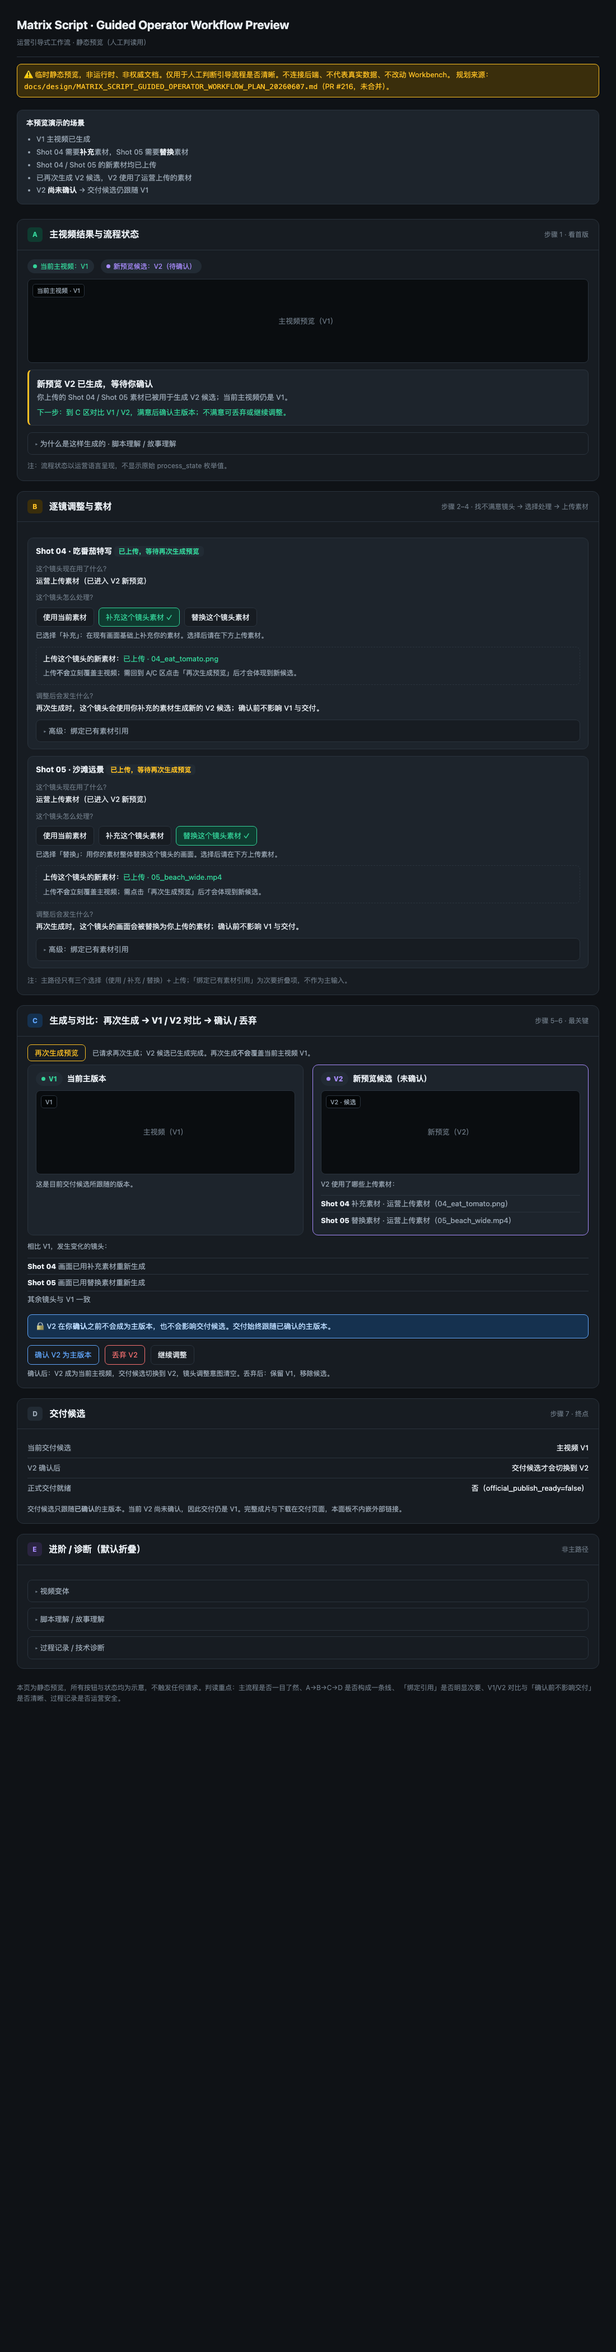
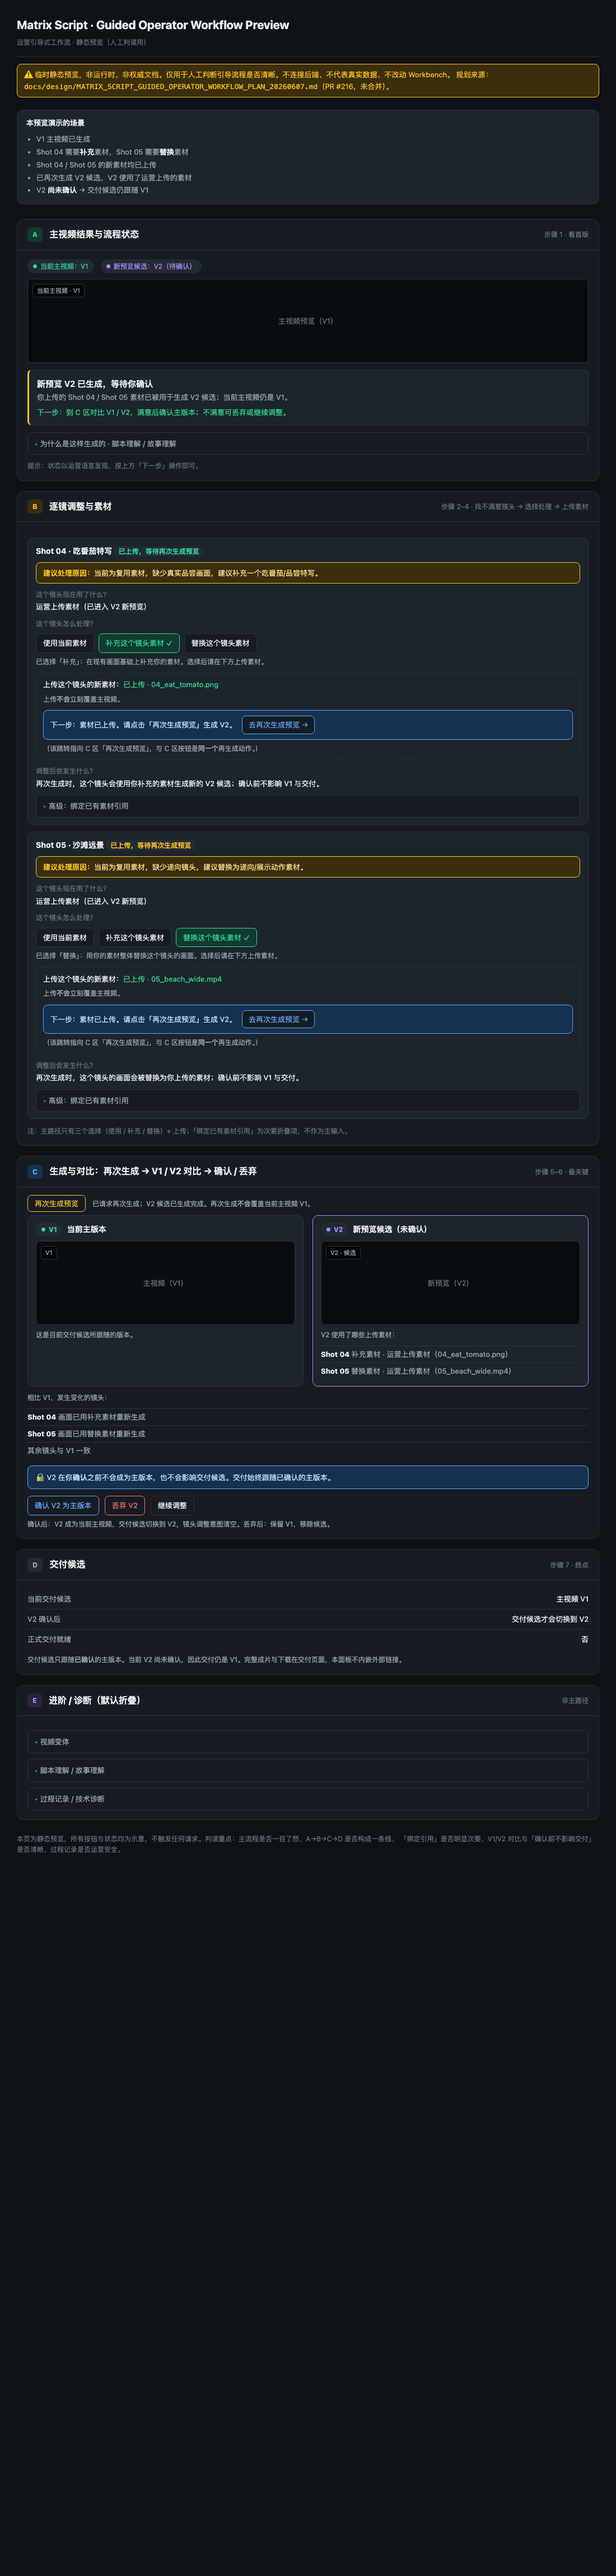
docs(matrix-script): apply operator-review fixes to guided workflow preview
- Fix 1: per-shot 建议处理原因 cue on Shot 04 / Shot 05
- Fix 2: D 区 shows 正式交付就绪：否 only; drop raw official_publish_ready
  field and the engineer-facing process_state note from primary surface
- Fix 3: upload -> regenerate nudge + jump-to-C CTA beside each upload

diff --git a/docs/design/previews/matrix_script_guided_operator_workflow_preview.html b/docs/design/previews/matrix_script_guided_operator_workflow_preview.html
@@ -89,6 +89,14 @@
   details.adv[open]>summary::before{content:"▾ "}
   details.adv .adv-body{padding:0 14px 12px;font-size:13px;color:var(--muted)}
 
+  .reason{background:var(--amber-dim);border:1px solid var(--amber);color:#f5d98a;
+    border-radius:8px;padding:8px 12px;font-size:13px;margin:8px 0 2px}
+  .reason b{color:var(--amber)}
+  .nudge{display:flex;align-items:center;gap:10px;flex-wrap:wrap;background:var(--blue-dim);
+    border:1px solid var(--blue);color:#bcdcff;border-radius:8px;padding:9px 12px;font-size:13px;margin-top:10px}
+  .nudge a.jump{font-size:13px;padding:5px 11px;border-radius:7px;border:1px solid var(--blue);
+    color:var(--blue);text-decoration:none;background:var(--panel)}
+
   .cmp{display:grid;grid-template-columns:1fr 1fr;gap:16px;margin:10px 0}
   @media(max-width:760px){.cmp{grid-template-columns:1fr}}
   .cmp .col{background:var(--panel2);border:1px solid var(--line);border-radius:10px;padding:12px 14px}
@@ -162,7 +170,7 @@
         脚本被拆为 6 个镜头，按 Hook → Body → CTA 组织。此处为只读的生成背景说明，不是需要你操作的步骤。
       </div>
     </details>
-    <div class="note">注：流程状态以运营语言呈现，不显示原始 process_state 枚举值。</div>
+    <div class="note">提示：状态以运营语言呈现，按上方「下一步」操作即可。</div>
   </div>
 </section>
 
@@ -178,6 +186,7 @@
     <!-- Shot 04 supplement -->
     <div class="shot">
       <h3>Shot 04 · 吃番茄特写 <span class="statelabel up">已上传，等待再次生成预览</span></h3>
+      <div class="reason"><b>建议处理原因：</b>当前为复用素材，缺少真实品尝画面，建议补充一个吃番茄/品尝特写。</div>
       <div class="qline">这个镜头现在用了什么？</div>
       <div class="ans">运营上传素材（已进入 V2 新预览）</div>
 
@@ -191,7 +200,12 @@
 
       <div class="upload">
         <div>上传这个镜头的新素材：<span class="file">已上传 · 04_eat_tomato.png</span></div>
-        <div class="helper">上传<b>不会</b>立刻覆盖主视频；需回到 A/C 区点击「再次生成预览」后才会体现到新候选。</div>
+        <div class="helper">上传<b>不会</b>立刻覆盖主视频。</div>
+        <div class="nudge">
+          <span>下一步：素材已上传。请点击「再次生成预览」生成 V2。</span>
+          <a class="jump" href="#zone-c">去再次生成预览 →</a>
+        </div>
+        <div class="helper">（该跳转指向 C 区「再次生成预览」，与 C 区按钮是<b>同一个</b>再生成动作。）</div>
       </div>
 
       <div class="qline">调整后会发生什么？</div>
@@ -206,6 +220,7 @@
     <!-- Shot 05 replace -->
     <div class="shot">
       <h3>Shot 05 · 沙滩远景 <span class="statelabel repl">已上传，等待再次生成预览</span></h3>
+      <div class="reason"><b>建议处理原因：</b>当前为复用素材，缺少递向镜头，建议替换为递向/展示动作素材。</div>
       <div class="qline">这个镜头现在用了什么？</div>
       <div class="ans">运营上传素材（已进入 V2 新预览）</div>
 
@@ -219,7 +234,12 @@
 
       <div class="upload">
         <div>上传这个镜头的新素材：<span class="file">已上传 · 05_beach_wide.mp4</span></div>
-        <div class="helper">上传<b>不会</b>立刻覆盖主视频；需点击「再次生成预览」后才会体现到新候选。</div>
+        <div class="helper">上传<b>不会</b>立刻覆盖主视频。</div>
+        <div class="nudge">
+          <span>下一步：素材已上传。请点击「再次生成预览」生成 V2。</span>
+          <a class="jump" href="#zone-c">去再次生成预览 →</a>
+        </div>
+        <div class="helper">（该跳转指向 C 区「再次生成预览」，与 C 区按钮是<b>同一个</b>再生成动作。）</div>
       </div>
 
       <div class="qline">调整后会发生什么？</div>
@@ -236,7 +256,7 @@
 </section>
 
 <!-- ============ C 区 ============ -->
-<section class="zone">
+<section class="zone" id="zone-c">
   <div class="zone-head">
     <span class="ix bl">C</span>
     <h2>生成与对比：再次生成 → V1 / V2 对比 → 确认 / 丢弃</h2>
@@ -296,7 +316,7 @@
   <div class="zone-body">
     <div class="kv"><span class="k">当前交付候选</span><span class="v">主视频 V1</span></div>
     <div class="kv"><span class="k">V2 确认后</span><span class="v">交付候选才会切换到 V2</span></div>
-    <div class="kv"><span class="k">正式交付就绪</span><span class="v falseflag">否（official_publish_ready=false）</span></div>
+    <div class="kv"><span class="k">正式交付就绪</span><span class="v falseflag">否</span></div>
     <div class="helper" style="margin-top:10px">
       交付候选只跟随<b>已确认</b>的主版本。当前 V2 尚未确认，因此交付仍是 V1。完整成片与下载在交付页面，本面板不内嵌外部链接。
     </div>
